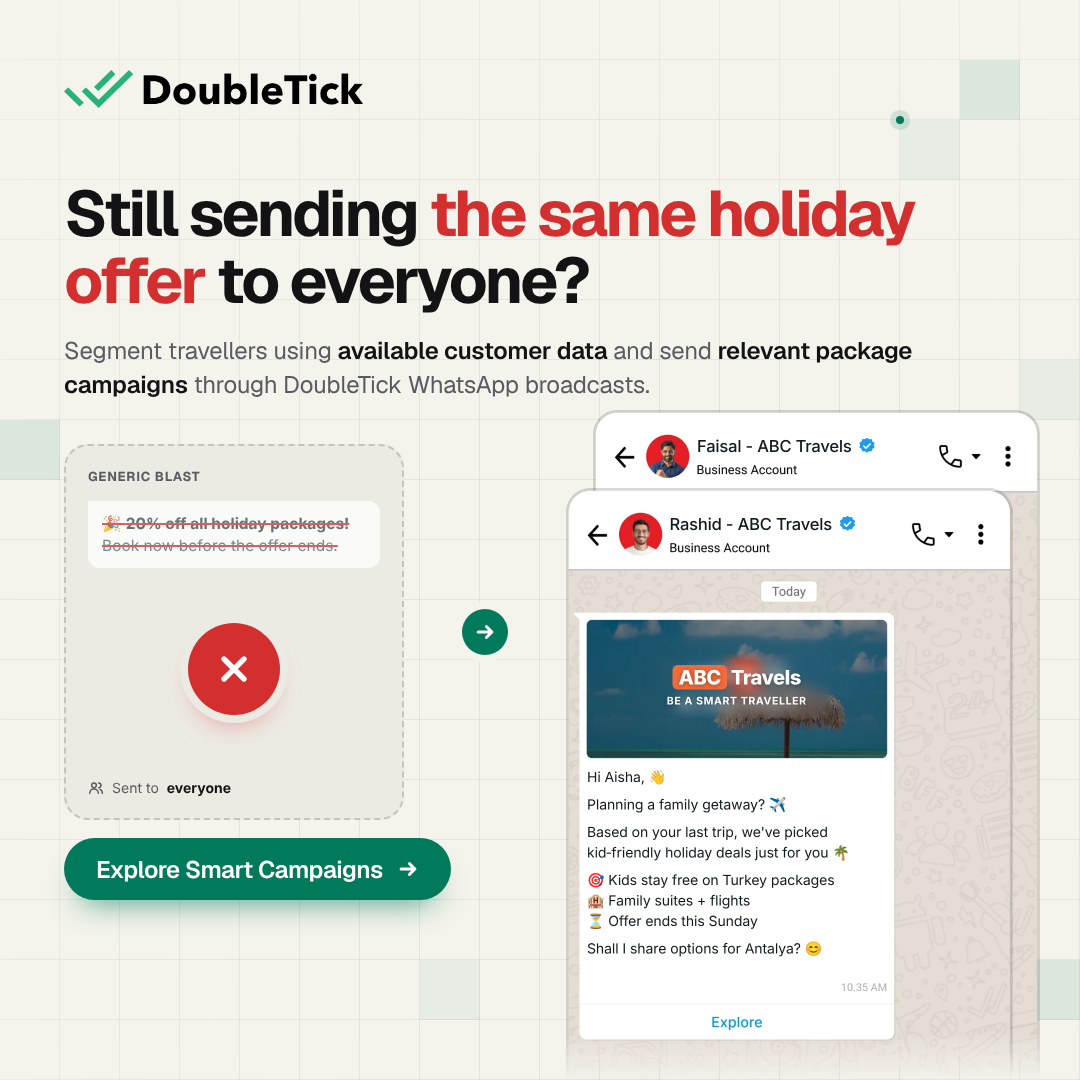
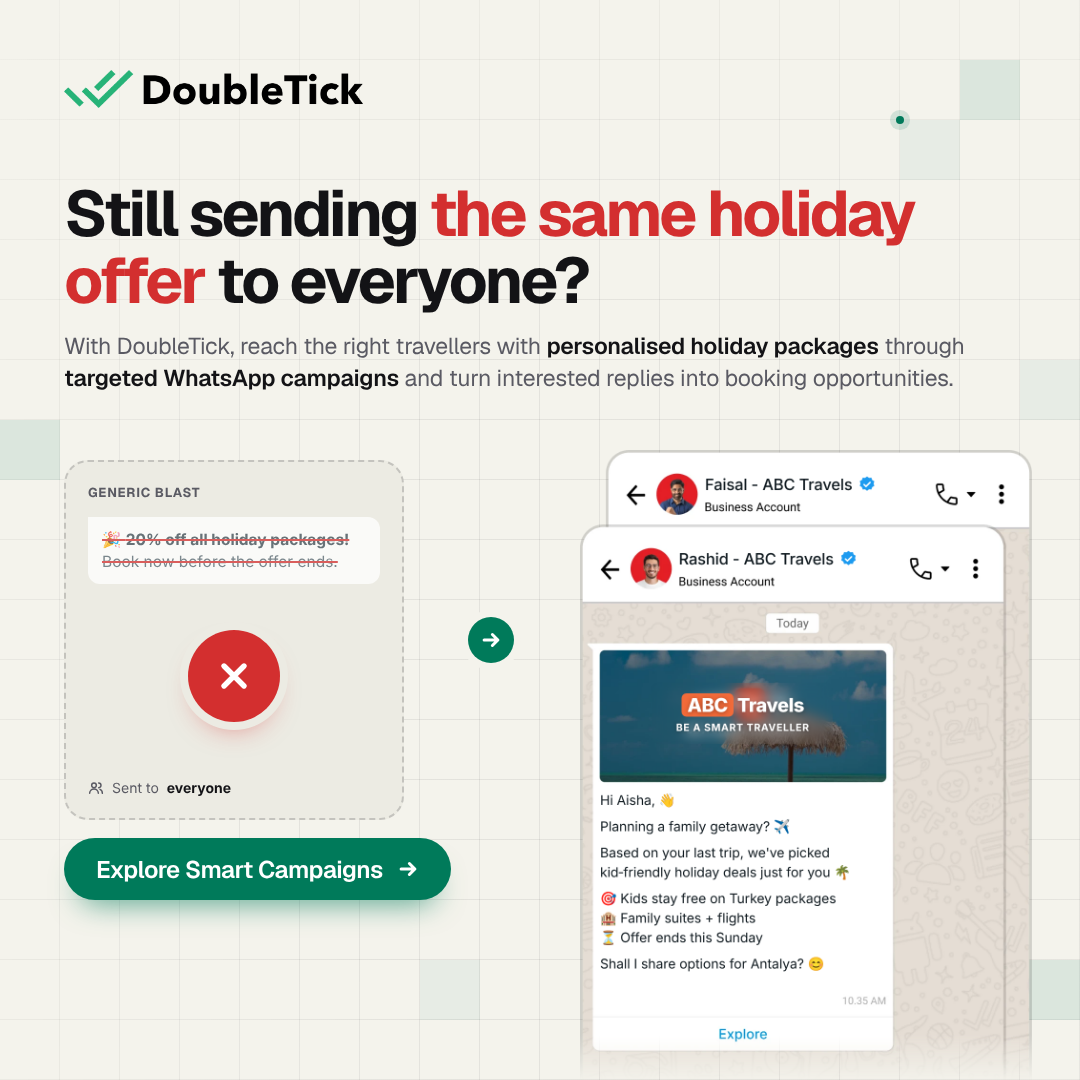
feat: new subheading for smart campaigns ad
Claude-Session: https://claude.ai/code/session_01U68wzeZAut9FRgfZMxNXRM

diff --git a/ads/doubletick-smart-campaigns/index.html b/ads/doubletick-smart-campaigns/index.html
@@ -43,11 +43,11 @@
   /* ---------- copy ---------- */
   .headline { position: absolute; top: 180px; left: 64px; width: 960px; font-weight: 700; font-size: 64px; line-height: 1.05; letter-spacing: -0.045em; color: var(--ink); }
   .headline .hl { color: #D32F2F; }
-  .sub { position: absolute; top: 334px; left: 64px; width: 952px; font-size: 24px; line-height: 1.4; color: var(--ink-2); letter-spacing: -0.01em; }
+  .sub { position: absolute; top: 330px; left: 64px; width: 952px; font-size: 23px; line-height: 1.4; color: var(--ink-2); letter-spacing: -0.01em; }
   .sub b { color: var(--ink); font-weight: 600; }
 
   /* ---------- generic blast (crossed out) ---------- */
-  .blast { position: absolute; left: 64px; top: 444px; width: 340px; height: 376px; border-radius: 24px; background: #ECEBE3; border: 2px dashed rgba(19,19,22,0.18); padding: 22px; display: flex; flex-direction: column; font-family: "Inter", "Segoe UI", Helvetica, Arial, sans-serif; }
+  .blast { position: absolute; left: 64px; top: 460px; width: 340px; height: 360px; border-radius: 24px; background: #ECEBE3; border: 2px dashed rgba(19,19,22,0.18); padding: 22px; display: flex; flex-direction: column; font-family: "Inter", "Segoe UI", Helvetica, Arial, sans-serif; }
   .blast .lbl { font-family: "Geist", sans-serif; font-size: 13px; font-weight: 700; letter-spacing: 0.06em; text-transform: uppercase; color: var(--ink-2); }
   .blast .bub { position: relative; margin-top: 16px; background: #fff; border-radius: 12px; border-top-left-radius: 0; padding: 12px 14px; font-size: 15.5px; line-height: 1.4; color: #54656F; opacity: 0.75; text-decoration: line-through; text-decoration-color: #D32F2F; text-decoration-thickness: 2px; }
   .blast .bub b { color: #3B4A54; }
@@ -57,7 +57,7 @@
   .strike { position: absolute; left: 34px; right: 34px; top: 46%; height: 3px; background: #D32F2F; transform: rotate(-14deg); opacity: 0.85; border-radius: 3px; }
 
   /* ---------- arrow ---------- */
-  .arrow { position: absolute; left: 462px; top: 609px; width: 46px; height: 46px; border-radius: 50%; background: var(--green); display: grid; place-items: center; box-shadow: 0 0 0 7px var(--bg); z-index: 4; }
+  .arrow { position: absolute; left: 468px; top: 617px; width: 46px; height: 46px; border-radius: 50%; background: var(--green); display: grid; place-items: center; box-shadow: 0 0 0 7px var(--bg); z-index: 4; }
 
   /* ---------- stacked WhatsApp chats (bleed off bottom) ---------- */
   .phone { position: absolute; border-radius: 30px 30px 0 0; background: #EFEAE2; border: 2px solid #E2E2DC; overflow: hidden; font-family: "Inter", "Segoe UI", Helvetica, Arial, sans-serif; color: #111B21; }
@@ -87,7 +87,7 @@
   .btn { border-top: 1px solid #E9EDEF; text-align: center; padding: 10px 0 11px; color: #0A84C1; font-weight: 500; font-size: 15.5px; }
   .comp { flex: none; height: 62px; display: flex; align-items: center; gap: 16px; padding: 0 16px; background: #F7F5F0; border-top: 1px solid #E6E2DA; }
   .comp .field { flex: 1; height: 40px; border-radius: 999px; background: #fff; border: 1px solid #E6E2DA; display: flex; align-items: center; justify-content: flex-end; padding: 0 12px; }
-  .chat { position: absolute; left: 566px; top: 410px; width: 474px; height: auto; z-index: 3; -webkit-mask-image: linear-gradient(to bottom, #000 0, #000 625px, transparent 672px); }
+  .chat { position: absolute; left: 580px; top: 450px; width: 452px; height: auto; z-index: 3; -webkit-mask-image: linear-gradient(to bottom, #000 0, #000 585px, transparent 632px); }
   .segchip { position: absolute; left: 594px; top: 458px; z-index: 5; display: flex; align-items: center; gap: 7px; font-size: 14px; font-weight: 600; color: #fff; background: var(--green); padding: 8px 14px; border-radius: 999px; box-shadow: 0 10px 20px -10px rgba(0,122,90,0.7); font-family: "Inter", sans-serif; }
 
   /* ---------- footer ---------- */
@@ -112,7 +112,7 @@
 
   <!-- copy -->
   <h1 class="headline">Still sending <span class="hl">the same holiday offer</span> to everyone?</h1>
-  <p class="sub">Segment travellers using <b>available customer data</b> and send <b>relevant package campaigns</b> through DoubleTick WhatsApp broadcasts.</p>
+  <p class="sub">With DoubleTick, reach the right travellers with <b>personalised holiday packages</b> through <b>targeted WhatsApp campaigns</b> and turn interested replies into booking opportunities.</p>
 
   <!-- generic blast, crossed out -->
   <div class="blast">
